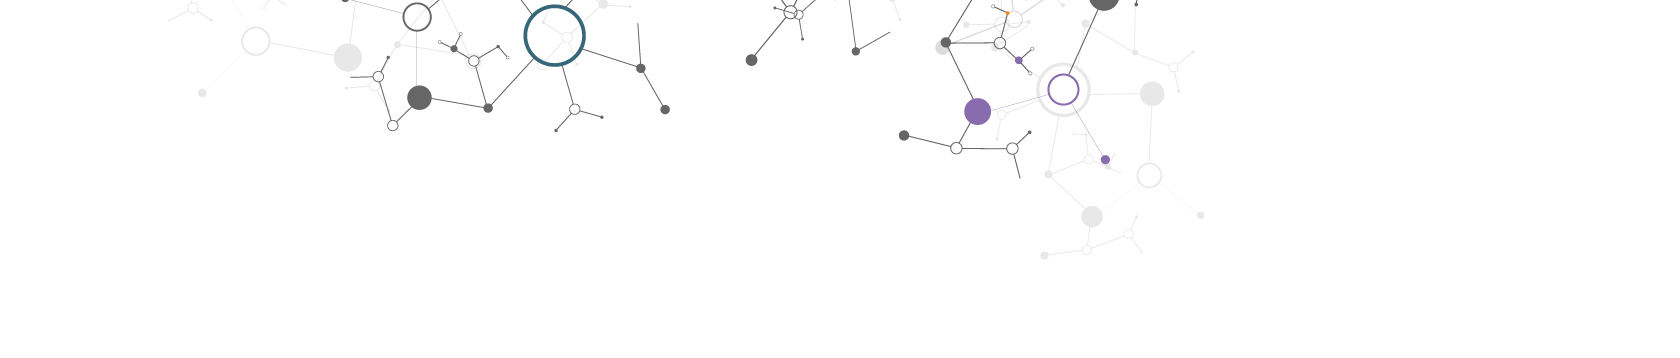
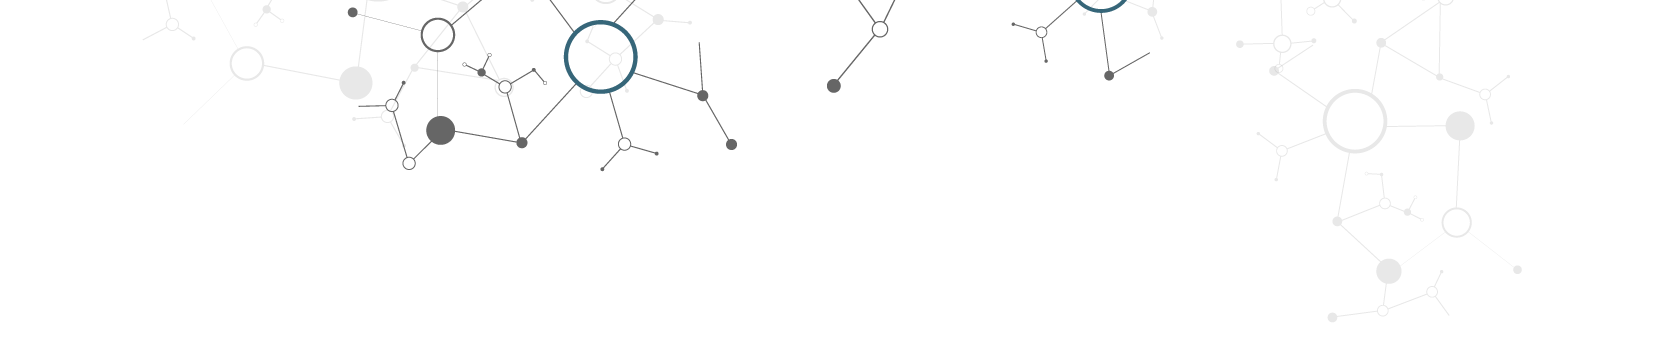
Update top network image, top layout

diff --git a/styles/home_page.css b/styles/home_page.css
@@ -75,7 +75,7 @@ body {
   body h1, body h2 {
     text-transform: uppercase; }
   body h1 {
-    margin: 0px 0 0 0;
+    margin: 50px 0 0 0;
     font-size: 3.6em;
     font-weight: 100;
     letter-spacing: .05em; }
@@ -130,7 +130,7 @@ body #data-stack {
   body #data-stack img {
     width: 600px; }
 body #network-image {
-  height: 400px;
+  height: 300px;
   overflow: hidden; }
 body footer {
   padding: 40px; }

diff --git a/styles/home_page.scss b/styles/home_page.scss
@@ -38,7 +38,7 @@ body{
 	}
 
 	h1{
-		margin:0px 0 0 0;
+		margin:50px 0 0 0;
 		font-size: 3.6em;
 		font-weight: 100;
 		letter-spacing: .05em;
@@ -132,7 +132,7 @@ body{
 	}
 
 	#network-image{
-		height: 400px;
+		height: 300px;
 		overflow: hidden;
 	}
 
